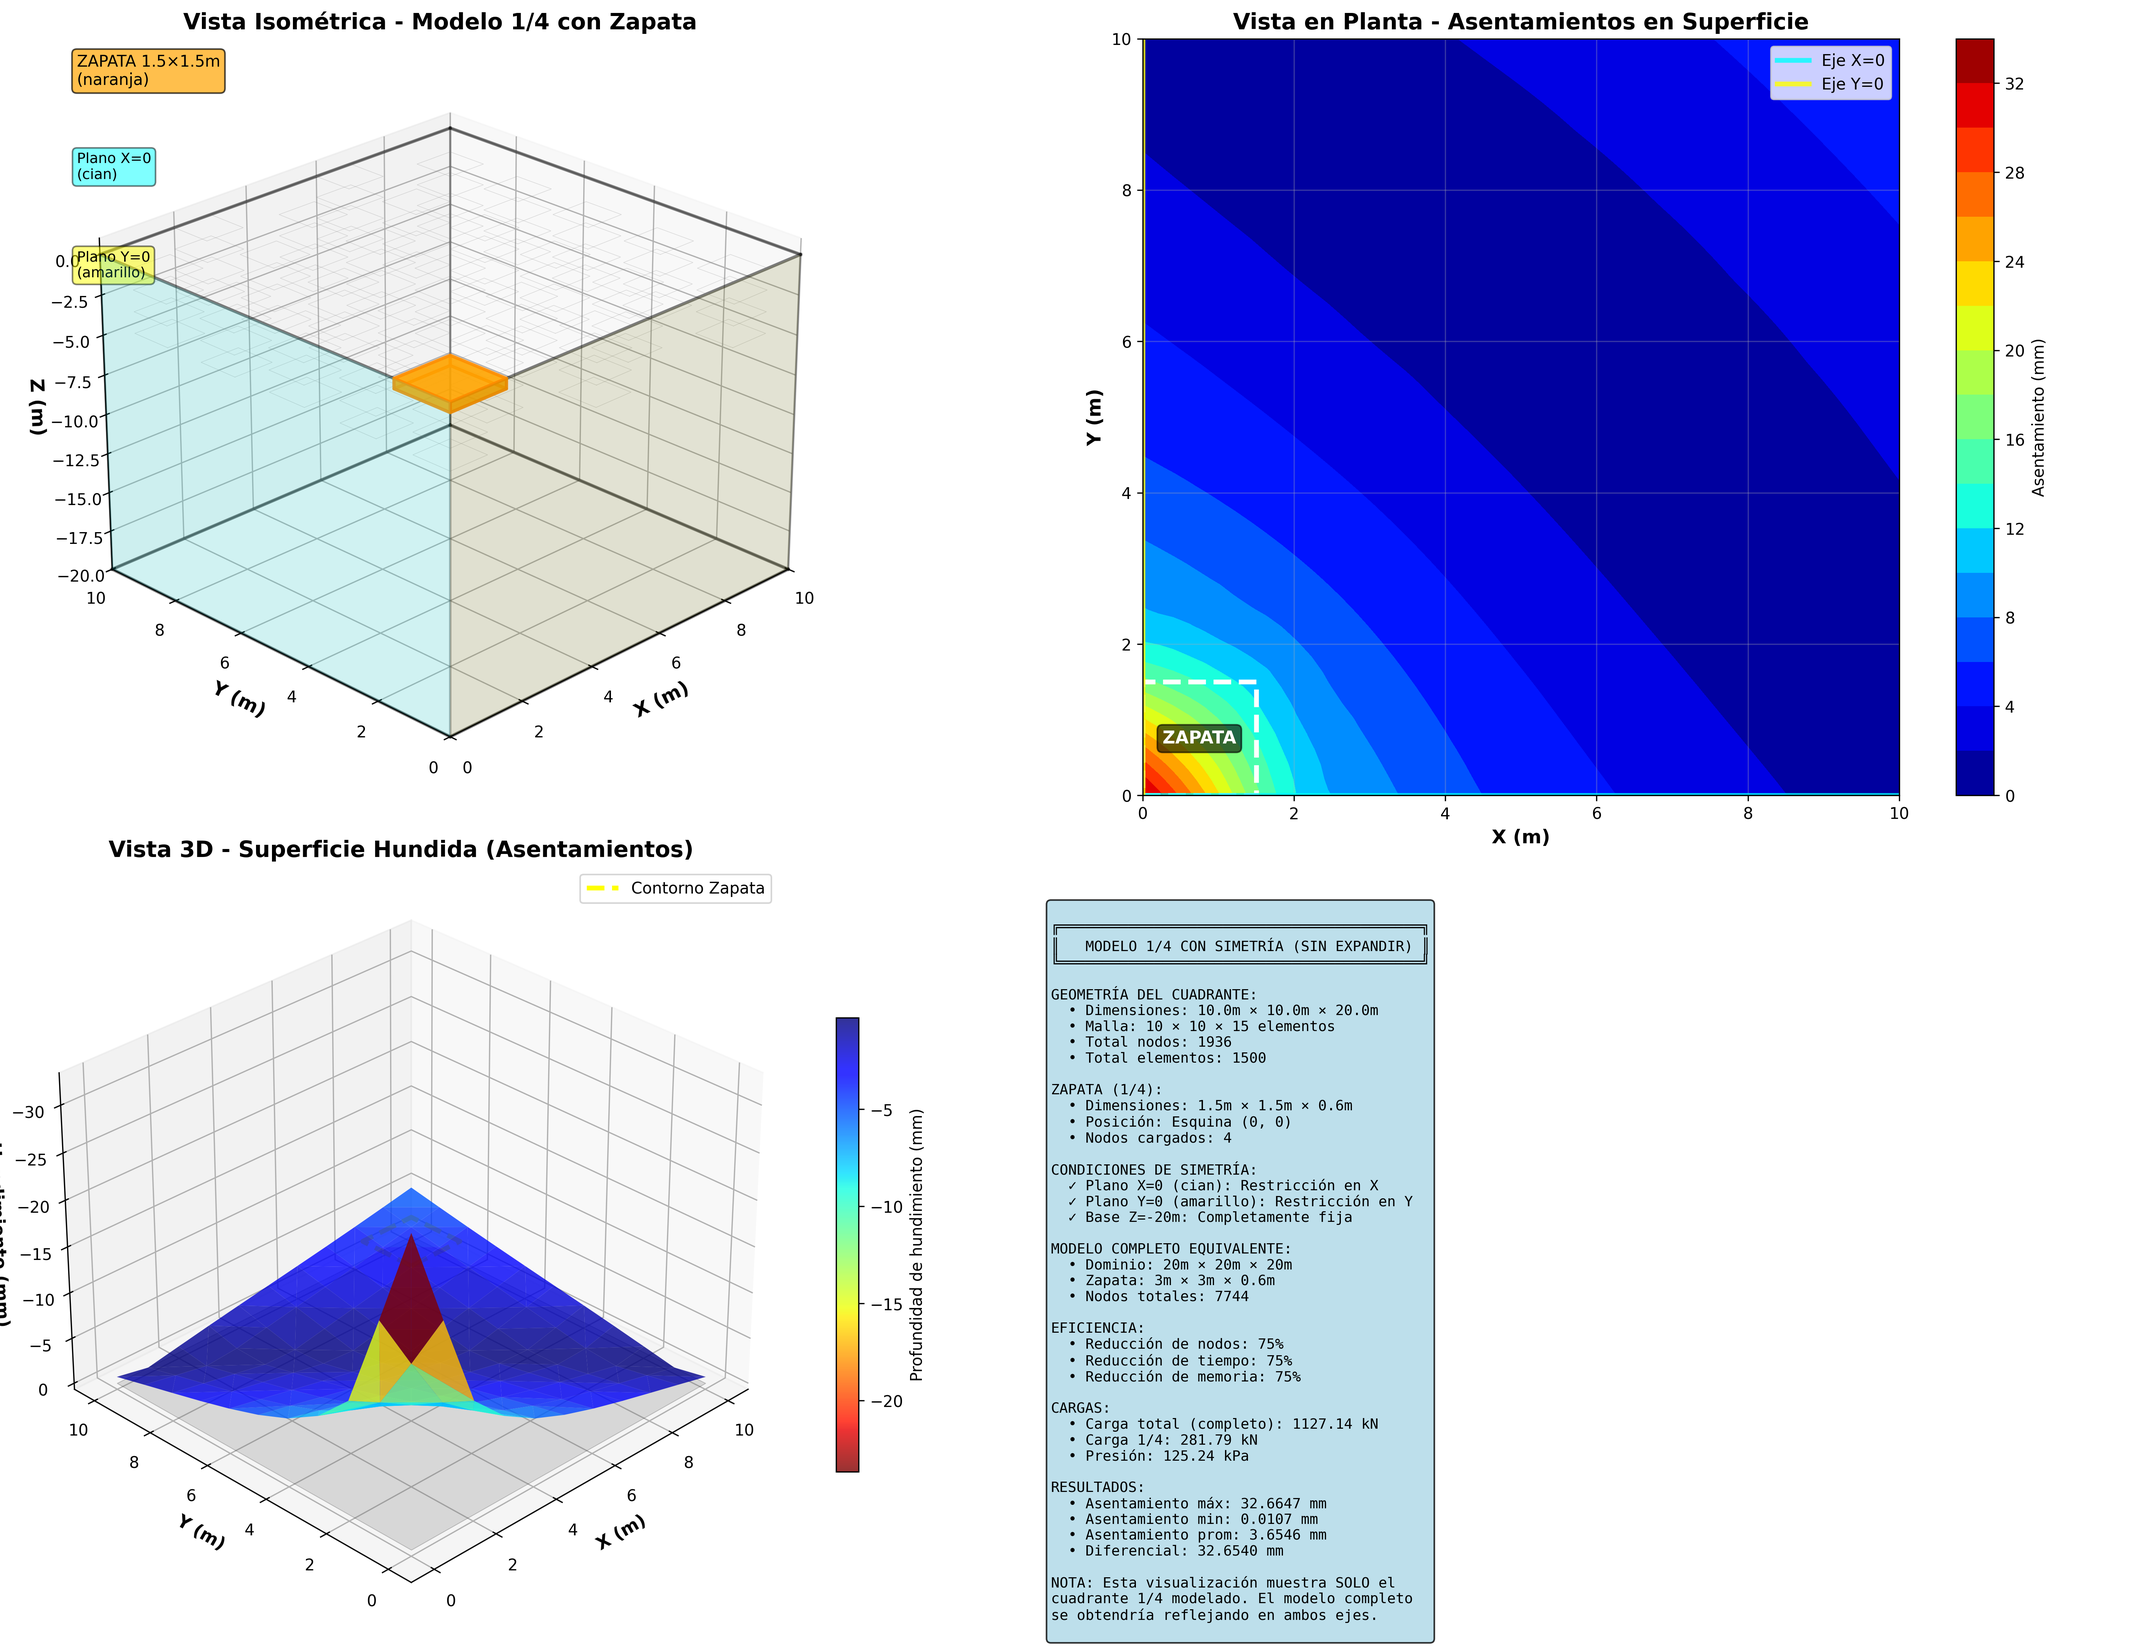
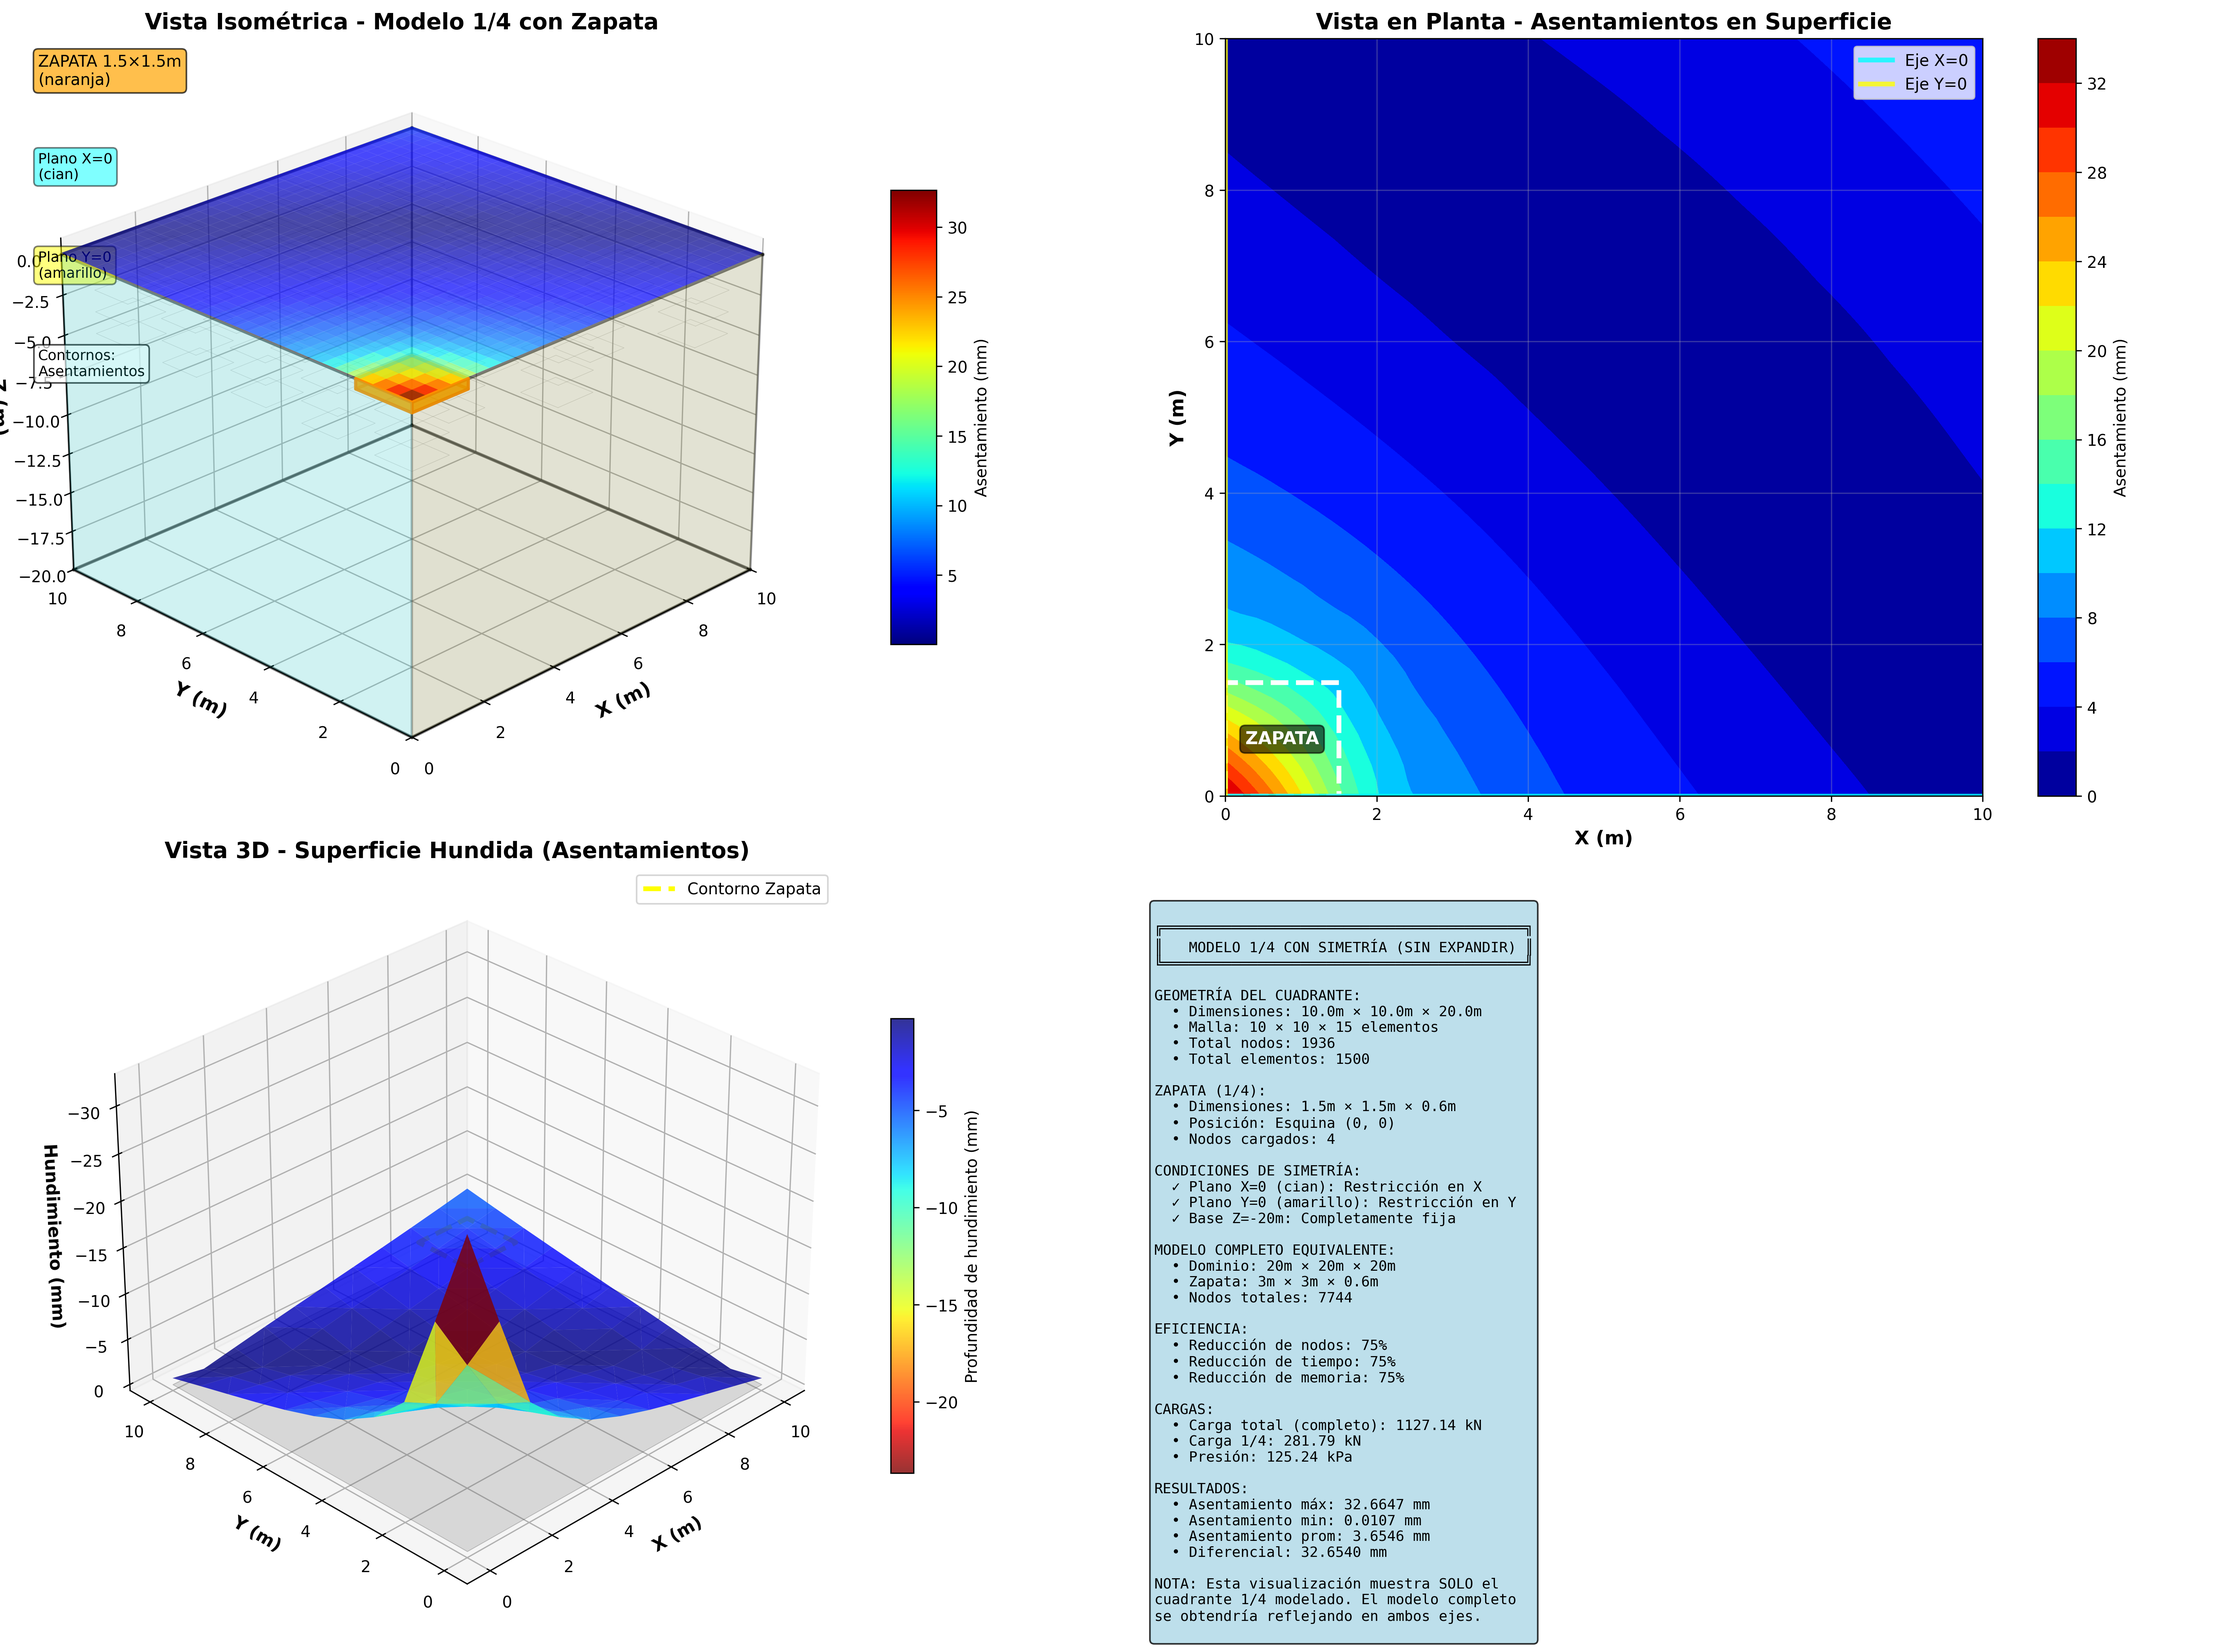
Agregar contornos de asentamiento en vista isométrica 3D del modelo 1/4
Mejorar visualización isométrica agregando superficie coloreada con
contornos de asentamiento en la parte superior del modelo.

MEJORAS EN VISTA ISOMÉTRICA (Panel 1):

✓ Superficie de contornos coloreados en z=0
  - Interpolación suave (cubic) de asentamientos
  - Colormap jet (rojo = mayor asentamiento)
  - Alpha 0.7 para transparencia
  - Grid 30×30 para resolución fina

✓ Colorbar lateral
  - Escala de asentamientos en mm
  - Mismo esquema de colores que vista en planta
  - Etiqueta clara "Asentamiento (mm)"

✓ Etiqueta adicional
  - "Contornos: Asentamientos"
  - Caja blanca para visibilidad

VENTAJAS:
- Ahora la vista isométrica muestra distribución de asentamientos
- Facilita comparación visual con vista en planta
- Los colores coinciden entre paneles 1 y 2
- Zapata (naranja) contrasta con contornos de superficie
- Planos de simetría siguen visibles

DETALLES TÉCNICOS:
- Superficie ligeramente elevada (z=0.1) para evitar z-fighting
- Grid interpolado 30×30 puntos
- Importaciones organizadas al inicio del archivo
- Sin duplicación de imports

Imagen actualizada: modelo_quarter_isometrico.png (2.4 MB)

diff --git a/visualize_quarter_model.py b/visualize_quarter_model.py
@@ -3,6 +3,9 @@ import numpy as np
 import matplotlib.pyplot as plt
 from mpl_toolkits.mplot3d import Axes3D
 from mpl_toolkits.mplot3d.art3d import Poly3DCollection
+from scipy.interpolate import griddata
+from matplotlib import cm
+from matplotlib.colors import Normalize
 
 # ================================================================================
 # VISUALIZACIÓN ISOMÉTRICA DEL MODELO 1/4 - SIN EXPANDIR
@@ -186,6 +189,25 @@ for i, elem in enumerate(element_nodes[::4]):  # Cada 4 elementos
         zs = [p[2] for p in top_face] + [top_face[0][2]]
         ax1.plot(xs, ys, zs, 'gray', linewidth=0.3, alpha=0.3)
 
+# AGREGAR CONTORNOS DE ASENTAMIENTO EN LA SUPERFICIE
+# Crear grid para contornos
+xi_iso = np.linspace(0, Lx_quarter, 30)
+yi_iso = np.linspace(0, Ly_quarter, 30)
+Xi_iso, Yi_iso = np.meshgrid(xi_iso, yi_iso)
+
+# Interpolar asentamientos
+x_surf_list = [s[0] for s in surface_settlements]
+y_surf_list = [s[1] for s in surface_settlements]
+z_surf_list = [s[3] for s in surface_settlements]  # Asentamientos
+
+Zi_iso = griddata((x_surf_list, y_surf_list), z_surf_list, (Xi_iso, Yi_iso), method='cubic')
+
+# Dibujar superficie de contornos en z=0 (ligeramente elevada para visibilidad)
+surf_contour = ax1.plot_surface(Xi_iso, Yi_iso, np.zeros_like(Xi_iso) + 0.1,
+                                 facecolors=plt.cm.jet(Zi_iso/np.nanmax(Zi_iso)),
+                                 alpha=0.7, rstride=1, cstride=1,
+                                 linewidth=0, antialiased=True, shade=False)
+
 # Dibujar ZAPATA en la esquina
 zapata_z_top = 0
 zapata_z_bottom = -h_zapata
@@ -235,6 +257,13 @@ ax1.set_zlim(-Lz_soil, 1)
 # Vista isométrica desde esquina contraria
 ax1.view_init(elev=25, azim=225)
 
+# Agregar colorbar para los contornos de asentamiento
+norm = Normalize(vmin=np.nanmin(Zi_iso), vmax=np.nanmax(Zi_iso))
+sm = cm.ScalarMappable(cmap=cm.jet, norm=norm)
+sm.set_array([])
+cbar_iso = plt.colorbar(sm, ax=ax1, shrink=0.6, aspect=10, pad=0.1)
+cbar_iso.set_label('Asentamiento (mm)', fontsize=10)
+
 # Texto explicativo
 ax1.text2D(0.02, 0.98, 'ZAPATA 1.5×1.5m\n(naranja)', transform=ax1.transAxes,
            fontsize=10, verticalalignment='top',
@@ -245,6 +274,9 @@ ax1.text2D(0.02, 0.85, 'Plano X=0\n(cian)', transform=ax1.transAxes,
 ax1.text2D(0.02, 0.72, 'Plano Y=0\n(amarillo)', transform=ax1.transAxes,
            fontsize=9, verticalalignment='top',
            bbox=dict(boxstyle='round', facecolor='yellow', alpha=0.5))
+ax1.text2D(0.02, 0.59, 'Contornos:\nAsentamientos', transform=ax1.transAxes,
+           fontsize=9, verticalalignment='top',
+           bbox=dict(boxstyle='round', facecolor='white', alpha=0.7))
 
 # ========================================
 # 2. VISTA SUPERIOR - ASENTAMIENTOS
@@ -260,7 +292,6 @@ xi = np.linspace(0, Lx_quarter, 50)
 yi = np.linspace(0, Ly_quarter, 50)
 Xi, Yi = np.meshgrid(xi, yi)
 
-from scipy.interpolate import griddata
 Zi = griddata((x_surf, y_surf), z_surf, (Xi, Yi), method='cubic')
 
 contour = ax2.contourf(Xi, Yi, Zi, levels=20, cmap='jet')
